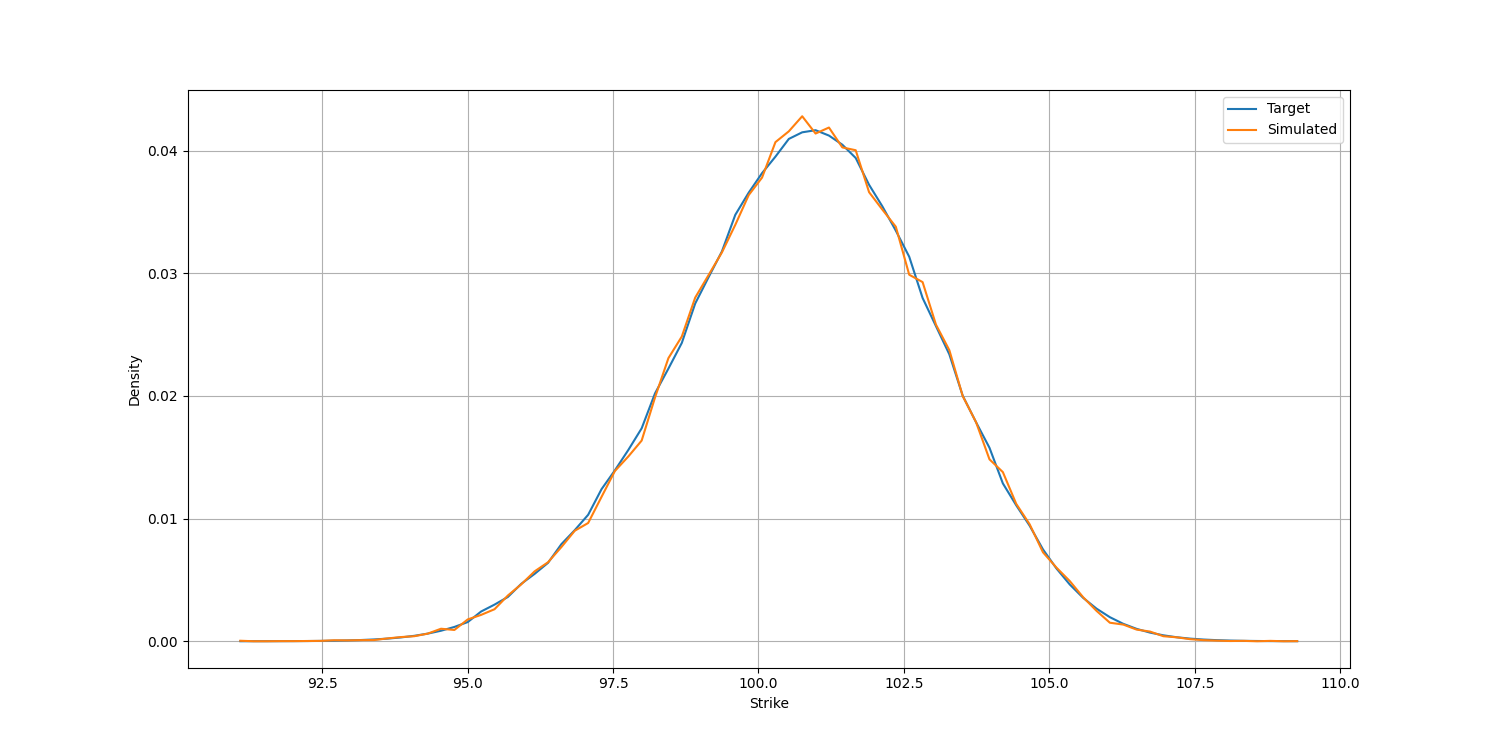
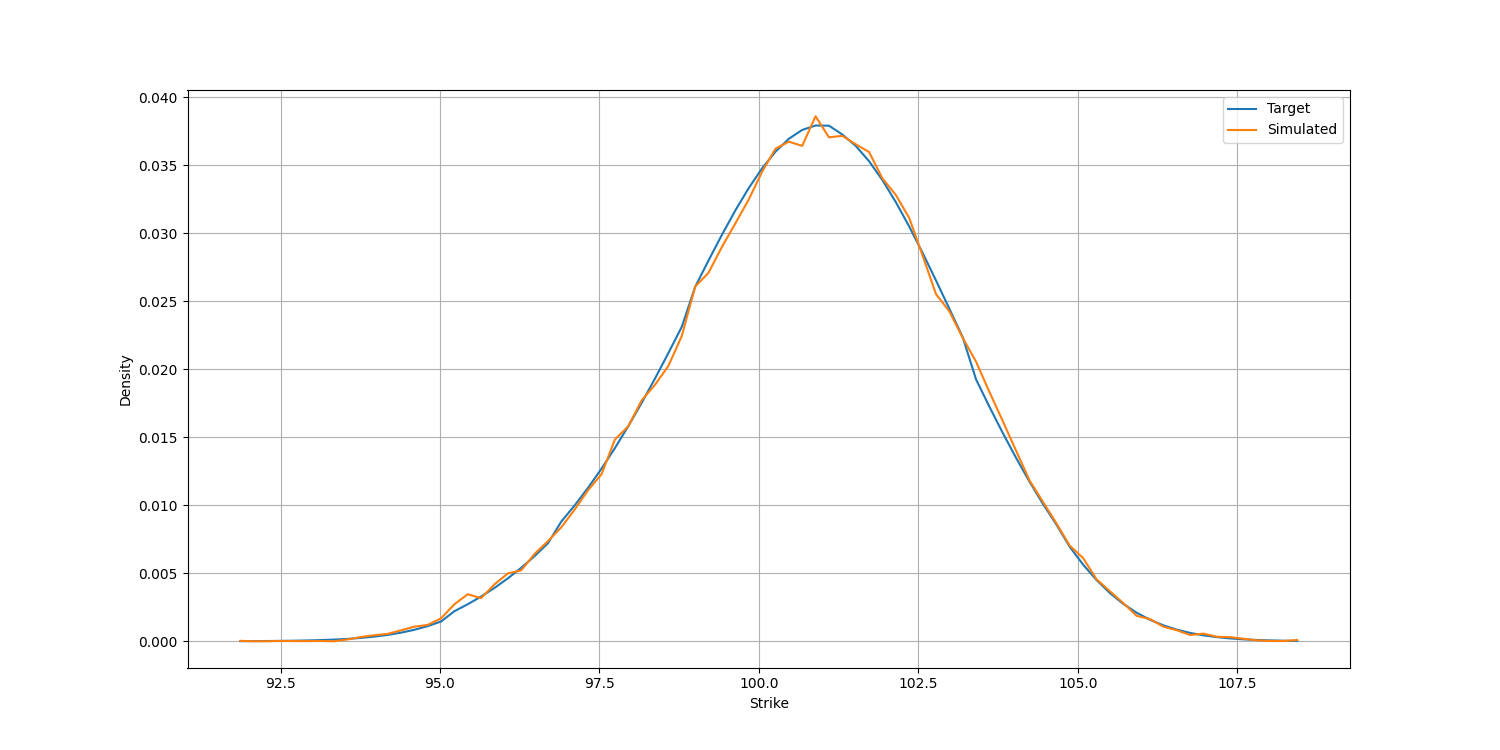
Update Optimization Functions

diff --git a/optimization.py b/optimization.py
@@ -1,9 +1,11 @@
+import copy
 import models
 import numpy as np
-import copy
+import scipy.optimize as optimize
 
-MAX_ITERS = 1000
-MAX_ERROR = pow(10, -5)
+
+MAX_ITER = 500
+MAX_ERROR = pow(10, -2)
 
 
 def CEV_price(k, t, f, df, OptType, gamma_, sigma0_):
@@ -32,25 +34,41 @@ def CEV_minimisation_function(params_list: list, inputs_list: list, mktPrice_lis
     return MSVE
 
 
-def CEV_nelder_mead(inputs_list: list, mktPrice_list: list):
+def CEV_calibration_scipy(inputs_list: list, mktPrice_list: list):
     """
     :param inputs_list: [(K_1, T_1, f_1, df_1, OptType_1), (K_2, T_2, f_2, df_2, OptType_2), ...]
     :param mktPrice_list: [mktPrice_1, mktPrice_2, ...]
-    :return: params_list: [gamma_, sigma0_]
+    :return: calibrated parameters dict {gamma_: sigma0_}
+    """
+    result = optimize.minimize(
+        CEV_minimisation_function,
+        x0=[0.5, 0.5],
+        method='nelder-mead',
+        args=(inputs_list, mktPrice_list),
+        tol=MAX_ERROR,
+    )
+    return list(result.x), result.fun, result.nit
+
+
+def CEV_calibration_nelder_mead(inputs_list: list, mktPrice_list: list):
+    """
+    :param inputs_list: [(K_1, T_1, f_1, df_1, OptType_1), (K_2, T_2, f_2, df_2, OptType_2), ...]
+    :param mktPrice_list: [mktPrice_1, mktPrice_2, ...]
+    :return: calibrated parameters dict {gamma_: sigma0_}
     """
     # Initialization
     nb_iter = 0
     d = 2
-    init_params = [[0.01, 0.05], [0.99, 0.7], [0.5, 0.35]]
-    # Set Initial Values, example for d=2 : {(a1, b1): x1, (a2, b2): x2, (a3, b3): x3}
+    init_params = [[0.01, 1], [1, 0.5], [0.5, 0.01]]
+    # Set Initial Solver Values, example for d=2 : {(a1, b1): x1, (a2, b2): x2, (a3, b3): x3}
     solver = {}
     for i in range(0, d + 1):
         params_list = [init_params[i][0], init_params[i][1]]
         solver[tuple(init_params[i])] = CEV_minimisation_function(params_list=params_list, inputs_list=inputs_list,
                                                                   mktPrice_list=mktPrice_list)
-    # Sorting
+    # Sorting Solver
     solver = {k: v for k, v in sorted(solver.items(), key=lambda item: item[1])}
-    while list(solver.values())[1] - list(solver.values())[0] > MAX_ERROR and nb_iter < MAX_ITERS:
+    while list(solver.values())[1] - list(solver.values())[0] > MAX_ERROR and nb_iter < MAX_ITER:
         # Compute The Barycenter (excluding d+1 params vector)
         x0 = []
         for i in range(0, d):
@@ -134,7 +152,7 @@ def CEV_nelder_mead(inputs_list: list, mktPrice_list: list):
                 # Else (xc no good) --> contracting every point towards best one
                 else:
                     new_points = {}
-                    for i in range(1, d+1):
+                    for i in range(1, d + 1):
                         new_x = []
                         for j in range(0, d):
                             new_x.append(0.5 * (list(solver.keys())[0][j] + list(solver.keys())[i][j]))
@@ -144,11 +162,11 @@ def CEV_nelder_mead(inputs_list: list, mktPrice_list: list):
                     for i in range(1, d + 1):
                         solver.pop(list(solver.keys())[-1])
                     solver.update(new_points)
-        # Sorting
+        # Sorting Solver
         solver = {k: v for k, v in sorted(solver.items(), key=lambda item: item[1])}
         # Update Nb Iter
         nb_iter = nb_iter + 1
-    return list(solver.keys())[0], nb_iter
+    return list(solver.keys())[0], list(solver.values())[0], nb_iter
 
 
 # particle class
@@ -163,7 +181,7 @@ class Particle:
         :param seed: seed for random
         :return: new Particle
         """
-        self.rnd = np.random.Random(seed)
+        self.rnd = np.random.seed(seed)
         # initialize position of the particle with 0.0 value
         self.position = [0.0 for i in range(d)]
         # initialize velocity of the particle with 0.0 value

diff --git a/project.py b/project.py
@@ -2,7 +2,6 @@ import numpy as np
 import pandas as pd
 
 from matplotlib import cm
-from scipy.stats import norm
 from matplotlib import pyplot as plt
 from scipy.interpolate import interp1d
 
@@ -28,7 +27,7 @@ df_mkt["Price (3M)"] = [8.67, 7.14, 5.98, 4.93, 4.09, 3.99, 3.43, 3.01, 2.72, 2.
 df_mkt["Price (6M)"] = [10.71, 8.28, 6.91, 6.36, 5.29, 5.07, 4.76, 4.47, 4.35, 4.14]
 df_mkt["Price (9M)"] = [11.79, 8.95, 8.07, 7.03, 6.18, 6.04, 5.76, 5.50, 5.50, 5.39]
 df_mkt["Price (12M)"] = [12.40, 9.59, 8.28, 7.40, 6.86, 6.58, 6.52, 6.49, 6.47, 6.46]
-
+"""
 # Compute Option's Implied Volatility (IV)
 for maturity in [3, 6, 9, 12]:
     df_mkt[f"IV ({maturity}M)"] = df_mkt.apply(
@@ -233,7 +232,7 @@ df_local_vol["Maturity Interp"] = df_local_vol.apply(
     lambda x: interp1d(x=[3, 6, 9, 12], y=[x[f"IV ({matu}M)"] for matu in [3, 6, 9, 12]], kind='cubic'), axis=1)
 df_local_vol["IV (8M)"] = df_local_vol.apply(lambda x: x["Maturity Interp"](8), axis=1)
 interp_function = interp1d(x=df_local_vol["Strike"], y=df_local_vol["IV (8M)"], kind='cubic')
-BS_price = black_scholes.BS_Price(f=100, k=99.5, t=8 / 12, v=interp_function(99.5), df=1, OptType="C")
+BS_price = black_scholes.BS_Price(f=100, k=99.5, t=8/12, v=interp_function(99.5), df=1, OptType="C")
 print(f"\nBlack-Scholes")
 print(f" - Implied Vol: {interp_function(99.5)}")
 print(f" - Price: {BS_price}")
@@ -259,7 +258,7 @@ fig7.savefig('results/2.2_Interpolated_Volatilities_8M.png')
 # -------------------------------------------- PART 2.2 : CEV CALIBRATION ---------------------------------------------
 # CEV Calibration (fixed gamma=1)
 # CEV Calibration
-
+"""
 
 # ------------------------------------------- PART 2.3 : DUPIRE CALIBRATION -------------------------------------------
 
@@ -275,12 +274,19 @@ inputs_list = []
 for i in range(0, len(mktPrice_list)):
     inputs_list.append((strike_list[i], maturity_list[i], 100, 1, "C"))
 
+# Estimate CEV Params (Scipy)
+params, error, nit = optimization.CEV_calibration_scipy(inputs_list=inputs_list, mktPrice_list=mktPrice_list)
+print("\nScipy")
+print(f" - [gamma, sigma0]: {params}")
+print(f" - MSE: {error}")
+print(f" - nb iterations: {nit}")
+
 # Estimate CEV Params (Nelder-Mead)
-nelder_mead_params, nb_iter = optimization.CEV_nelder_mead(inputs_list=inputs_list, mktPrice_list=mktPrice_list)
+params, error, nit = optimization.CEV_calibration_nelder_mead(inputs_list=inputs_list, mktPrice_list=mktPrice_list)
 print("\nNelder-Mead")
-print(f" - gamma: {nelder_mead_params[0]}")
-print(f" - sigma0: {nelder_mead_params[1]}")
-print(f" - Nb Iterations: {nb_iter}")
+print(f" - [gamma, sigma0]: {params}")
+print(f" - MSE: {error}")
+print(f" - nb iterations: {nit}")
 
 # Display Graphs
 plt.show()
